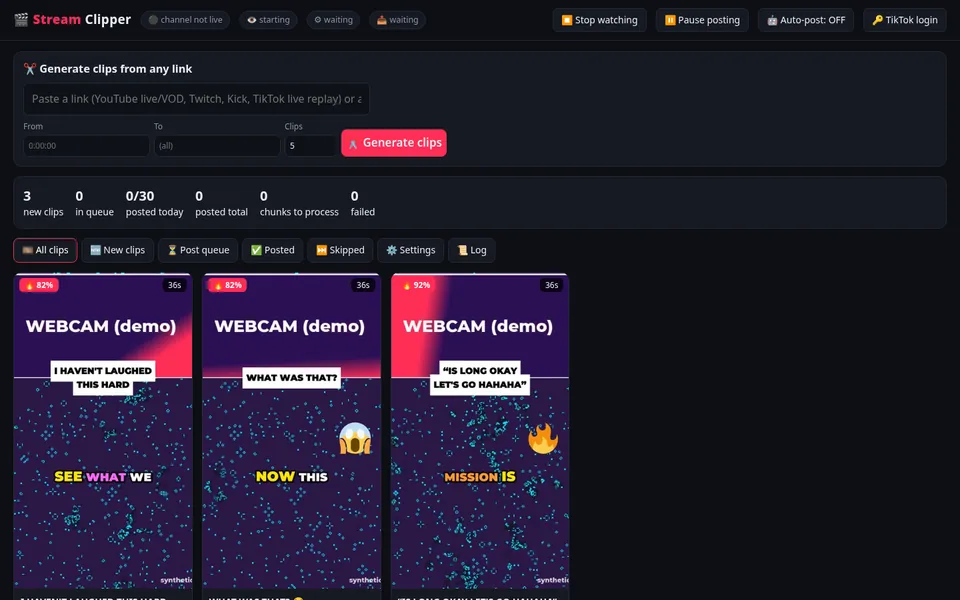
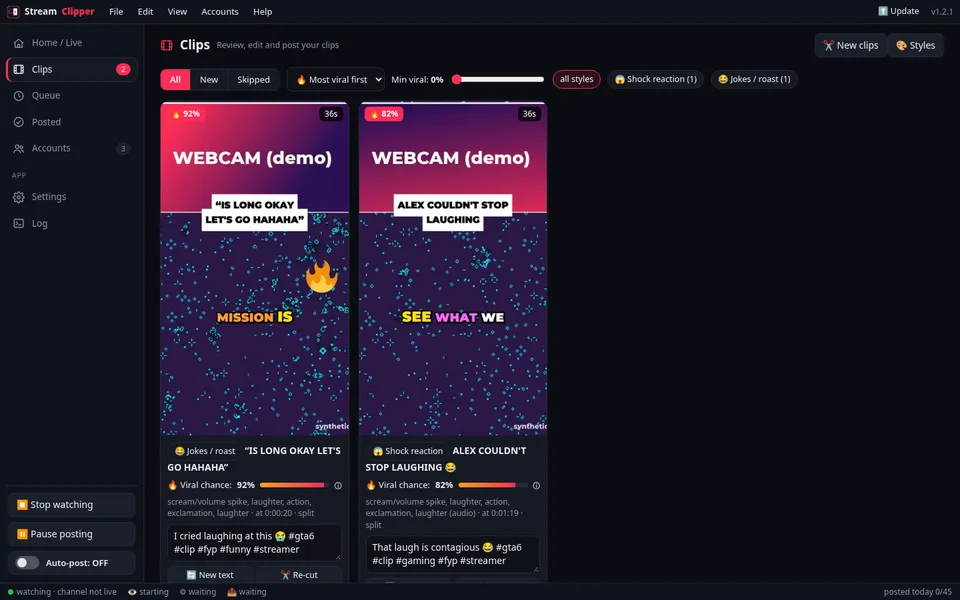
Stream Clipper card: GTA 6 framing (EN+RO), v1.3.0 + installer, new UI screenshot

diff --git a/index.html b/index.html
@@ -568,11 +568,11 @@ body:has(dialog#lb[open]) .wa-fab,body.menu-open .wa-fab{opacity:0;pointer-event
         </div>
       </article>
       <article class="repo-card rv" id="p-stream-clipper">
-        <a class="repo-img" href="https://lucianceusanro.github.io/stream-clipper/" target="_blank" rel="noopener" tabindex="-1" aria-hidden="true"><img src="/img/repos/stream-clipper.webp?v=20261119" alt="Stream Clipper dashboard with generated vertical clips" loading="lazy" decoding="async" width="960" height="600"></a>
+        <a class="repo-img" href="https://lucianceusanro.github.io/stream-clipper/" target="_blank" rel="noopener" tabindex="-1" aria-hidden="true"><img src="/img/repos/stream-clipper.webp?v=20261126" alt="Stream Clipper desktop app with GTA 6 clips ready to post" loading="lazy" decoding="async" width="960" height="600"></a>
         <div class="repo-body">
           <h3><a href="https://github.com/LucianCeusanRo/stream-clipper" target="_blank" rel="noopener">Stream Clipper</a></h3>
-          <div class="repo-rating"><div class="stars" role="img" aria-label="4 out of 5"><span class="sr">4 / 5</span><span>★★★★</span><span class="off">★</span></div><p class="repo-why"><span class="en">Working desktop app with a v1.0.0 release, a Windows build and a self-test in CI; it is new, the installer is unsigned, and the live page is a landing page, not the app.</span><span class="ro" lang="ro">Aplicație desktop funcțională, cu release v1.0.0, build pentru Windows și self-test în CI; e nouă, installerul nu e semnat, iar pagina live e o pagină de prezentare, nu aplicația.</span></p></div>
-          <p><span class="en">Turns long livestreams into vertical 9:16 clips: records or downloads a stream, transcribes it with Whisper in any language, finds the loud and funny moments, and renders clips with word-by-word captions. You review each clip before anything is posted; auto-post is off by default. Built with AI-assisted coding.</span><span class="ro" lang="ro">Transformă live-urile lungi în clipuri verticale 9:16: înregistrează sau descarcă un stream, îl transcrie cu Whisper în orice limbă, găsește momentele zgomotoase și amuzante și randează clipuri cu subtitrare cuvânt cu cuvânt. Verifici fiecare clip înainte să fie postat; postarea automată e oprită implicit. Construit cu ajutorul AI (AI-assisted coding).</span></p>
+          <div class="repo-rating"><div class="stars" role="img" aria-label="4 out of 5"><span class="sr">4 / 5</span><span>★★★★</span><span class="off">★</span></div><p class="repo-why"><span class="en">Working desktop app with a v1.3.0 release, a Windows installer and a self-test in CI; it is new, the installer is unsigned, and the live page is a landing page, not the app.</span><span class="ro" lang="ro">Aplicație desktop funcțională, cu release v1.3.0, installer pentru Windows și self-test în CI; e nouă, installerul nu e semnat, iar pagina live e o pagină de prezentare, nu aplicația.</span></p></div>
+          <p><span class="en">Clips GTA 6 streams into Shorts and TikToks automatically: records a stream, transcribes it with Whisper, finds the loud and funny moments, and renders 9:16 clips with word-by-word captions. Works for any streamer or game. You review each clip before posting; auto-post is off by default. Built with AI-assisted coding.</span><span class="ro" lang="ro">Taie automat live-urile de GTA 6 în Shorts și TikTok-uri: înregistrează un stream, îl transcrie cu Whisper, găsește momentele zgomotoase și amuzante și randează clipuri 9:16 cu subtitrare cuvânt cu cuvânt. Merge pentru orice streamer sau joc. Verifici fiecare clip înainte de postare; postarea automată e oprită implicit. Construit cu ajutorul AI (AI-assisted coding).</span></p>
           
           <div class="stack mono"><span>Python</span><span>faster-whisper</span><span>ffmpeg</span><span>Windows</span></div>
           <div class="repo-actions">
